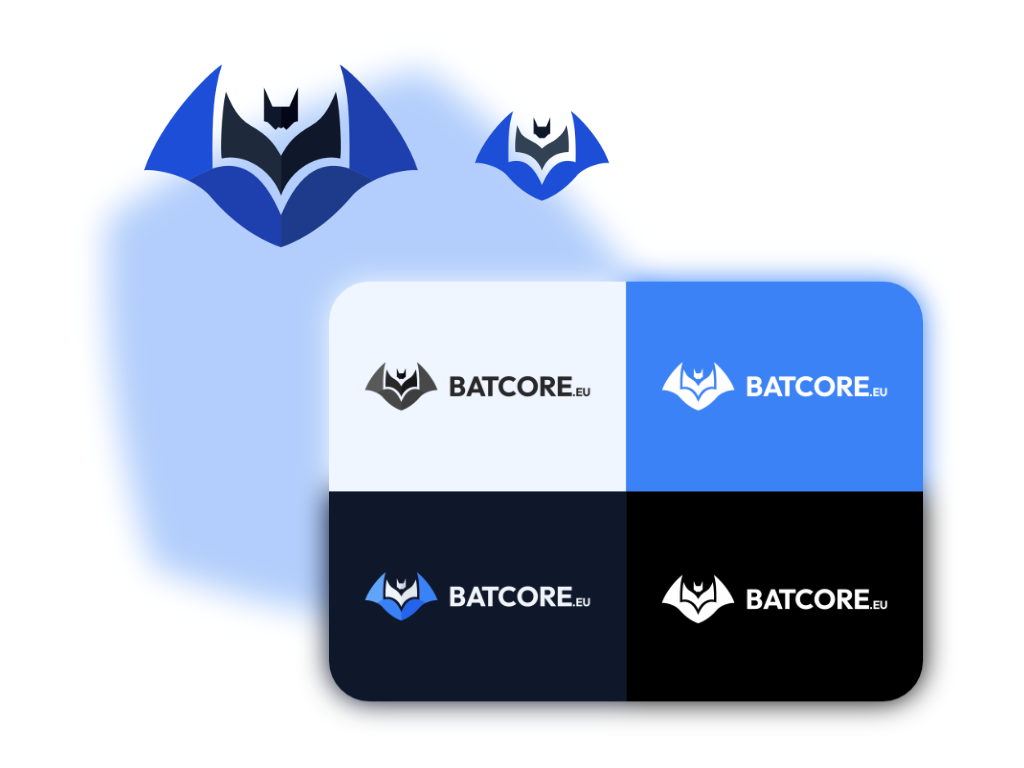
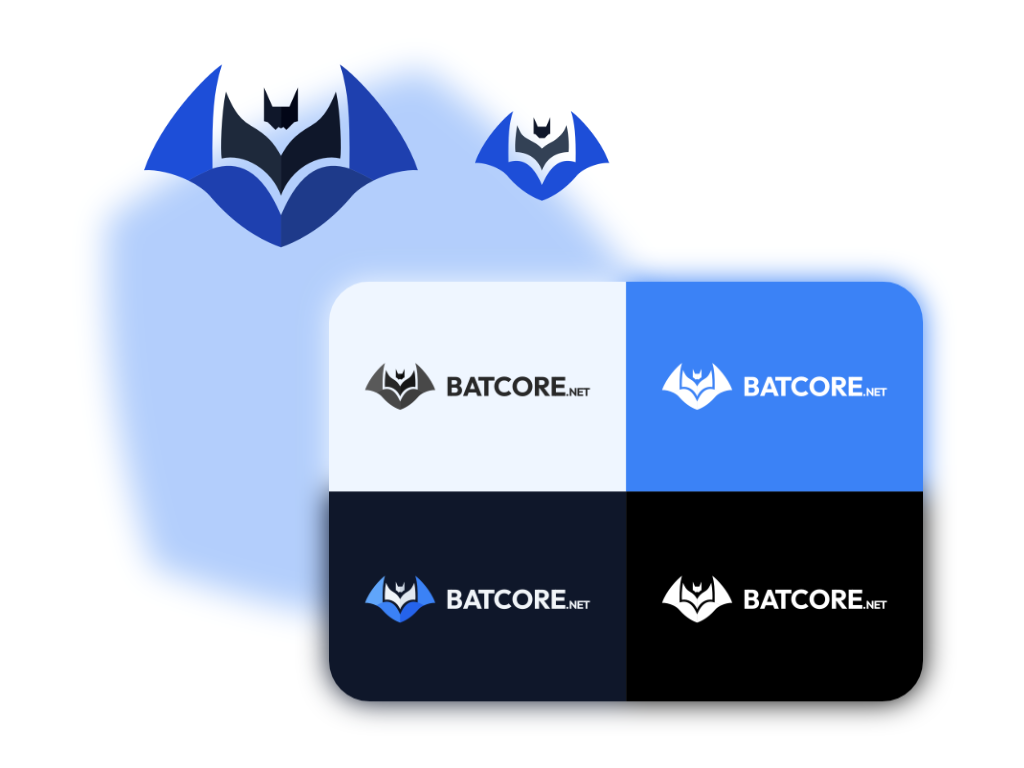
Batcore

diff --git a/pages/index.tsx b/pages/index.tsx
@@ -178,16 +178,16 @@ const Home: NextPage = (props) => {
         {
           image: BatcorePortfolio,
           logo: Batcore,
-          name: "BatCore.eu",
+          name: "BatCore.net",
           description: t("portfolio_batcore"),
           links: [
             {
               type: "learn_more",
-              href: "https://www.behance.net/gallery/188816001/Responsive-logo-for-BatCoreeu",
+              href: "https://www.behance.net/gallery/188816001/Responsive-logo-for-BatCorenet",
             },
             {
               type: "client",
-              href: "https://batcore.eu/",
+              href: "https://batcore.net/",
             },
           ],
         },
